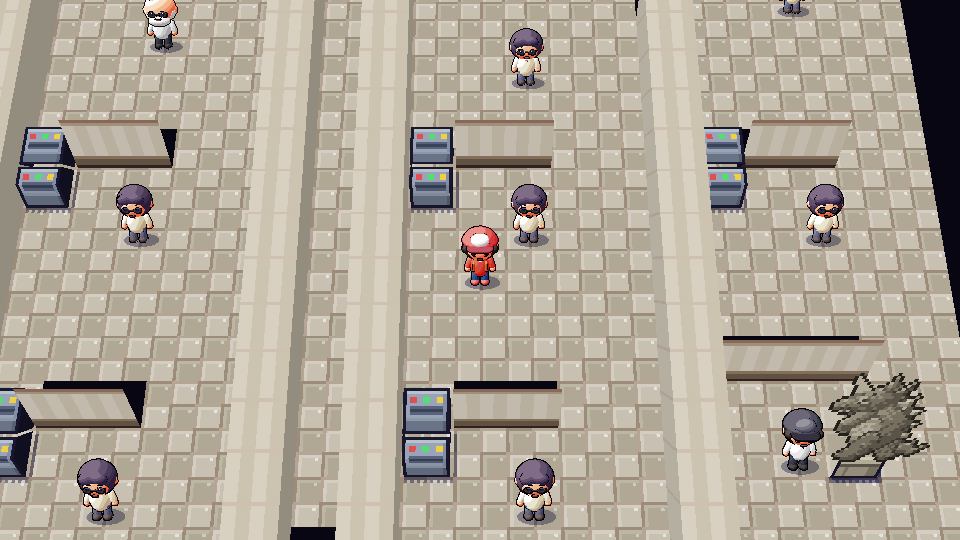
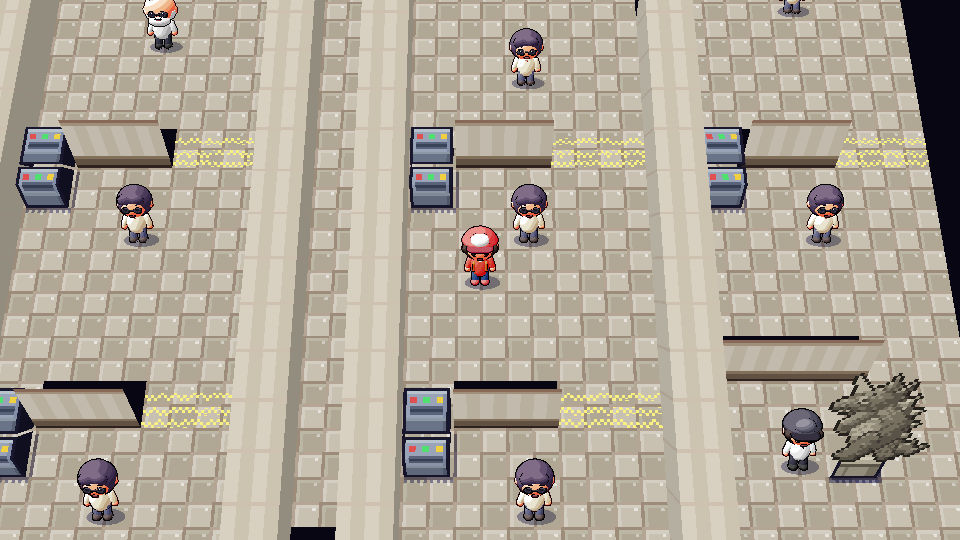
Overworld: barrier fx for script-set cells, capture flags, pipeline docs
Claude-Session: https://claude.ai/code/session_01KB6Z48yerkcTjG8ohbBPAd

diff --git a/pipeline/README.md b/pipeline/README.md
@@ -202,3 +202,42 @@ python3 pipeline/blender/gen_vfx.py                 # 22 particle meshes + poke_
 
 Battle reference captures: `pipeline/capture_screenshots.sh` "Battle" section
 (`--scene=battle --state=vfx --move=... --vfx_t=...`, see `Main.gd _setup_battle()`).
+
+## Overworld: maps baked from upstream, rebuilt in 3D (overworld agent)
+
+```sh
+UPSTREAM=/path/to/pokemon-claude-red node pipeline/scripts/bake_maps.js   # all maps (~30 s), or list map names
+python3 pipeline/blender/gen_world.py                                    # 3D trees / Poké Ball / boulder
+godot4 --headless --path godot --import                                  # import the new textures
+godot4 --path godot -- --scene=ow_playtest                               # new-game autopilot (Pallet -> rival battle)
+```
+
+`bake_maps.js` runs upstream's own renderer code (map.js labels + connections + border, maprender.js,
+terrain.js, buildings.js, buildingstyles.js, interior.js) for every map and splits the result:
+
+- `godot/assets/maps/<Map>_ground.png` — the flat layer: `paintGround` (grass/path/sand/pavement/rock/water),
+  ledges, cliffs, bridges, curbs, stairs, ships, interior floors / carpets / mats / ladders, elevation edges and
+  the soft shadows every object casts. Outdoor maps carry a 14 x 10 cell margin (neighbour maps via `labelAt`,
+  then the border pattern) so the 3D camera never sees the void; interiors a 2-cell black void.
+- `godot/assets/maps/<Map>_atlas.png` + `<Map>.json` `blocks` — every object that becomes geometry, painted *in
+  isolation* by the same painter (paint once on the ground for its shadow, once on a transparent layer for its
+  pixels, restore the ground under it): whole buildings (`house`: roof top / wall top / wall bottom / chimney /
+  flat roof), interior wall runs (`walls`), furniture (`box` with the front-face height, `cellboxes`), and thin
+  sprites (`card`: signs, fences, cut trees, statues, plants...).
+- `<Map>.json` also: the margin-inclusive label grid, `trees` (kind + upstream variant), `grass`, `flowers`,
+  `lights` (windows / Center & Mart signs / fires, for the night light pools), `fires`, `fx` (barriers, teleports).
+- `<Map>_water.png` (water mask, shore distance, deep patch) + `noise_water.png` / `noise_big.png`: the world
+  shader re-evaluates upstream's `waterColor()` every 4 frames and its drifting cloud shadows.
+- `decor_atlas.png` (tall grass v0-3 x 2 frames, flowers x 2 frames), `objects_atlas.png`, `palette.json`,
+  and `pipeline/blender/world_defs.json` (tree clump layouts / tuft offsets evaluated with upstream's hash).
+
+Variant hashes use upstream's own surface coordinates (margin 11 x 7), so trees, flowers, grass tufts, roofs
+and statues pick exactly the variants the 2D game shows.
+
+In Godot (`godot/scripts/overworld/`): `WorldBuilder` extrudes each block into boxes / gable or flat roofs /
+cards whose UVs are the *oblique projection* of the 2D art (a point at (x, z) and height h samples the pixel
+(x, z - h)), with heights scaled by K = tan(camera pitch 60°): from the game camera every building reads
+exactly like its 2D sprite, but it is real geometry that occludes characters, catches the night lights and
+shows perspective. `TileKit` draws the Blender trees (chunked MultiMeshes + inverted-hull outline), layered
+tall-grass cards (upstream's sway / rustle timing), animated flowers, brazier flames, barriers and teleport
+pads. All world shaders do their colour maths in sRGB like the 2D game (grade, light pools, cloud shadows).
